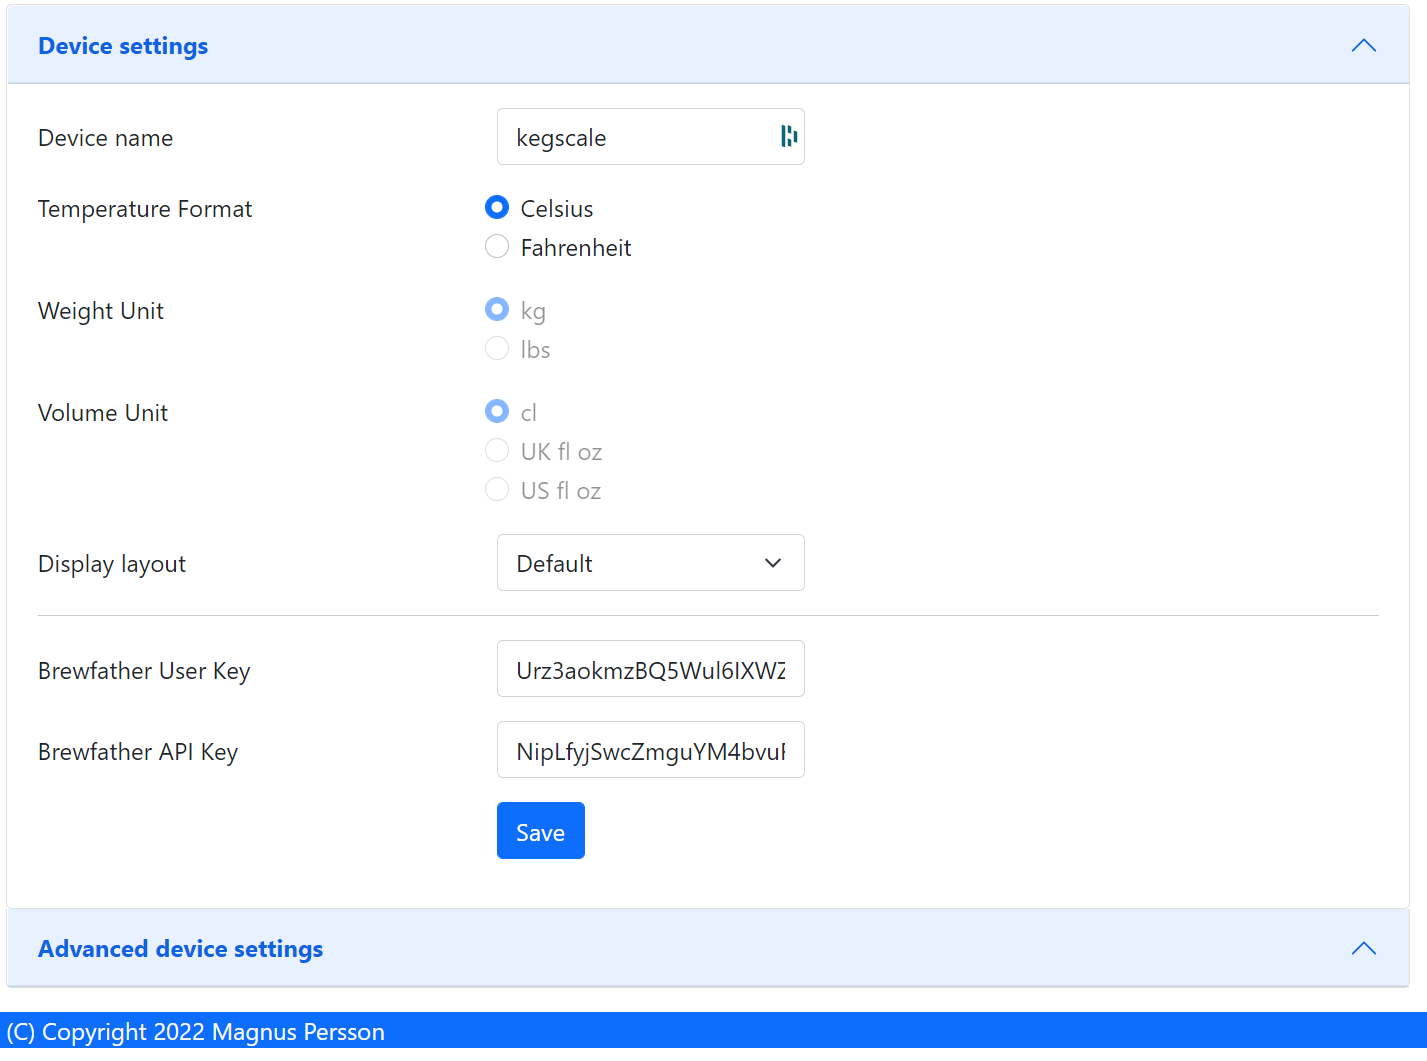
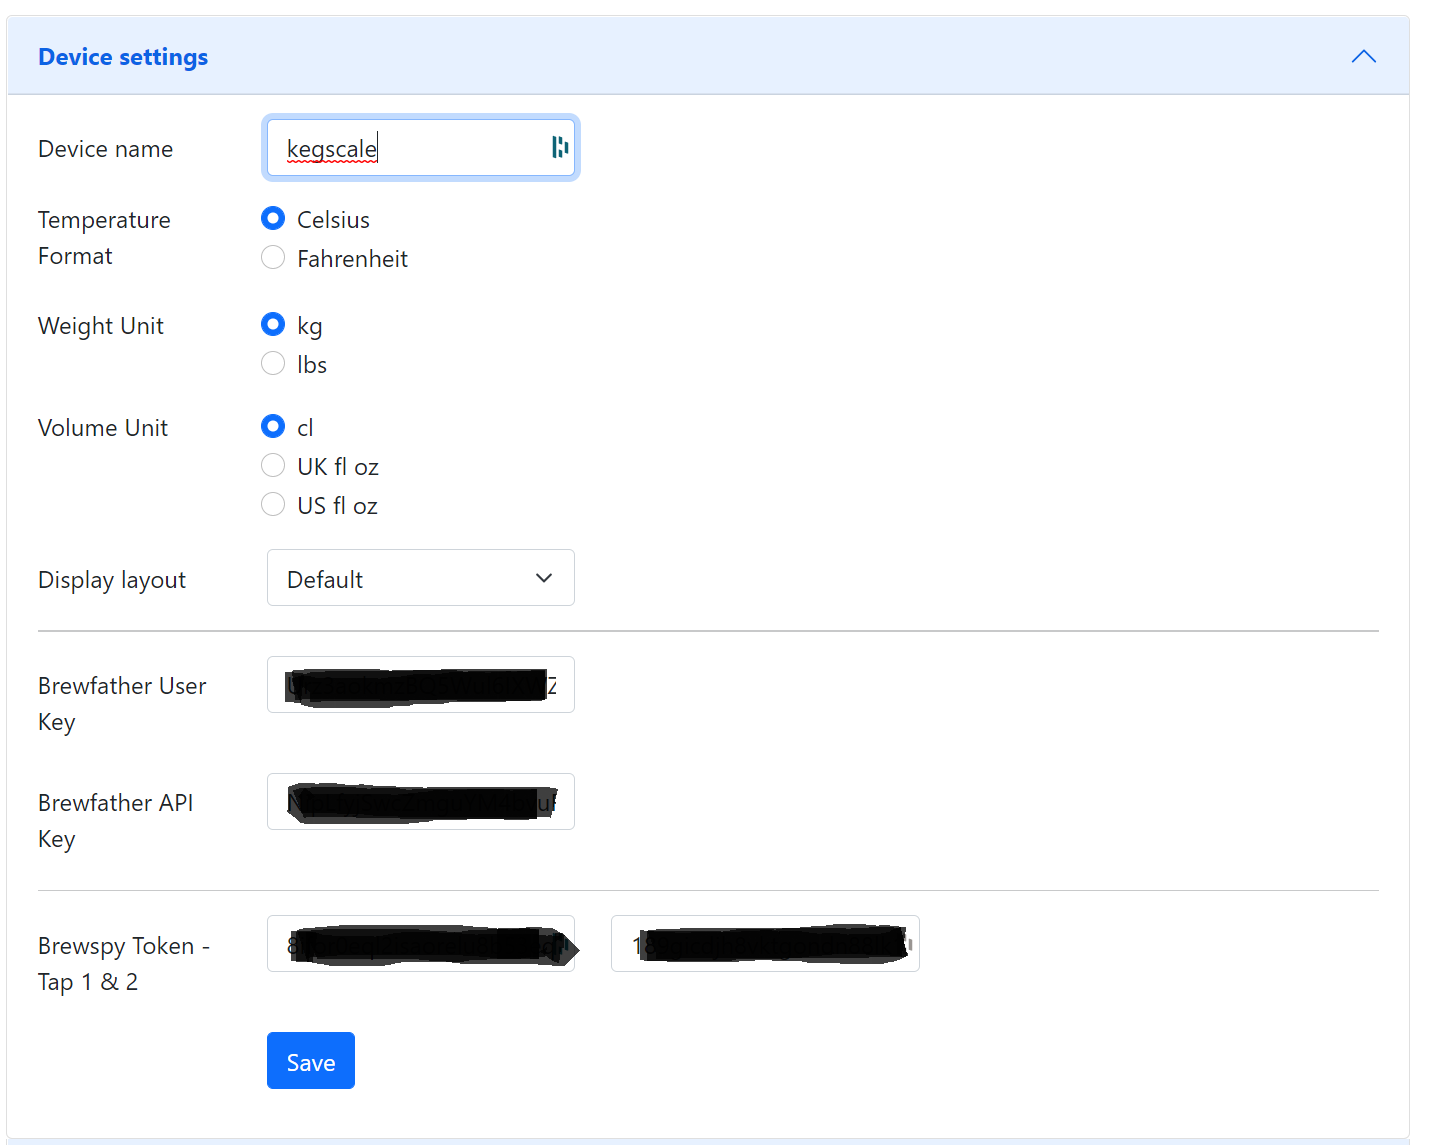
Updated docs for v0.4

diff --git a/src_docs/source/conf.py b/src_docs/source/conf.py
@@ -17,12 +17,12 @@
 
 # -- Project information -----------------------------------------------------
 
-project = 'KegScale'
+project = 'KegMon'
 copyright = '2022, Magnus Persson'
 author = 'Magnus Persson'
 
 # The full version, including alpha/beta/rc tags
-release = '0.0.4'
+release = '0.4.0'
 
 
 # -- General configuration ---------------------------------------------------
@@ -31,6 +31,7 @@ release = '0.0.4'
 # extensions coming with Sphinx (named 'sphinx.ext.*') or your custom
 # ones.
 extensions = [
+  'sphinx_copybutton'
 ]
 
 # Add any paths that contain templates here, relative to this directory.
@@ -46,7 +47,7 @@ exclude_patterns = []
 # The theme to use for HTML and HTML Help pages.  See the documentation for
 # a list of builtin themes.
 #
-html_theme = 'sphinx_rtd_theme'
+html_theme = 'furo'
 
 # Add any paths that contain custom static files (such as style sheets) here,
 # relative to this directory. They are copied after the builtin static files,

diff --git a/src_docs/source/index.rst b/src_docs/source/index.rst
@@ -7,9 +7,13 @@ Welcome to KegMon's documentation!
 ====================================
 
 .. note::
-  Reflects test version v0.3.0, Last updated 2022-09-10
+  Reflects test version v0.4.0, Last updated 2022-09-24
 
   Im still building my own so the project is regarded as work in progress.
+
+Main challenges so far:
+* Stable level detection, I'm trying out a few methods to detect a stable level and tuning the algorithms I have implemented. It's plausible that this is dependant on the hardware build and components. My second build seams to be more stable (at least in room temperature)
+* The esp8266 is really slow when interacting with the web ui. I'm considering switching to an esp32 instead with more power and/or an async web server. 
 
 This project is intended for my own use, I've have not really focused on making this reusable for others so the 
 documentation is not that extensive. 
@@ -17,7 +21,7 @@ documentation is not that extensive.
 However I have documented my build process and share it here. The design is created for 2 kegs but it 
 will work if you only use one (make sure to use the pins for scale 1 in that case). 
 
-The software will detect how many hx711 are connected and if the tempsensor is available. 
+The software will detect how many hx711 are connected and if there is a tempsensor. 
 
 The project contains the following parts:
 * Software that manage the scale and present the readings.
@@ -27,19 +31,21 @@ The project contains the following parts:
 Features
 ++++++++
 
-* Measure the weight of up to two kegs and estimate the number of pours left in the keg. 
-* Define the size of a pour by selecting the beer glass size. 
-* Volume of beer is determined by the FG and weight of the beer + keg.
+* Measure the weight & volume of up to two kegs and estimate the number of glasses are left in the keg
+* Define the size of a pour by selecting the beer glass size
+* Volume of beer is determined by the FG and weight of the beer (total - keg)
 * Import beer information from brewfather (name, abv, ebc and ibu, fg)
-* Show the remaning pours on OLED displays, one per keg
-* Show the remaning pours on web interface
+* Import beer information from brewspy (name, abv) - fg will come in when the brewspy API has implemented it
+* Show the remaning glasses on OLED displays, one per keg
+* Show the remaning glasses on web interface
 * Configuration is done via web interface
-* Calibration of scales are done via web interface
-* Stores statistics about the scales since start to determine the stabilty of the load cells.
+* Calibration of scales are done via web interface, no need for building your own firmware
+* Stores statistics about the scales since start to determine the stabilty of the load cells
 * Update firmware via web interface
-* Interact with brew-spy's tap list
-* Ability to change weight unit (currently only kg is supported)
-* Ability to change volume unit (currently only cl is supported)
+* Interact with brew-spy's tap list (volume and pour notification)
+* Display volumes in cl or fl. oz (uk & us)
+* Display weights in kg or lbs
+* Show a graph over scale changes and pours (last 40 data points)
 
 Future
 ++++++

diff --git a/src_docs/source/software.rst b/src_docs/source/software.rst
@@ -39,6 +39,22 @@ section will show the general device information.
   :width: 600
   :alt: Index
 
+* **Temperature**
+
+Temperature reading (not shown if there is no sensor).
+
+* **Humidity**
+
+Humidity reading (not shown if there is no sensor).
+
+* **Weights/Volumes**
+
+Shows weighs for scale 1 and 2.
+
+* **Glasses**
+
+Shows glasses (pours) left for scale 1 and 2. 
+
 * **Current version**
 
 Shows the current software version including git revision.
@@ -54,22 +70,6 @@ ESP8266 chip ID. Used for identifying the device.
 * **SSID**
 
 Name of network we are connected to.
-
-* **Temperature**
-
-Temperature reading ()not shown if there is no sensor).
-
-* **Humidity**
-
-Humidity reading (not shown if there is no sensor).
-
-* **Weights**
-
-Shows weighs for scale 1 and 2.
-
-* **Glasses**
-
-Shows glasses (pours) left for scale 1 and 2. 
 
 Beers
 *****
@@ -94,7 +94,7 @@ Information about the beer, used to show on user interfaces.
 
 * **Beer FG**
 
-Used in formula for calculating the beer volume. FG has a slight impact on the weight / volume unit.
+Used in formula for calculating the beer volume. FG has a slight impact on the weight / volume unit. If not defined 1 will be used for calculations.
 
 
 Configuration
@@ -130,6 +130,10 @@ Choose the layout/information on the OLED displays.
 
 Brewfather User key/API key.
 
+* **Brewspy token**
+
+Brewspy tokens for keg 1 & keg 2.
+
 Calibration
 ***********
 
@@ -158,15 +162,19 @@ the factor for estimating the weight.
 The third step is to validate that everything works, place anohter thing with a know weight and 
 check the measured value. If you are satisfied then you are done.
 
-Firmware update
-***************
+History
+*******
 
-Here you can upload a new firmware version without the need to hook the device to a serial port 
-on your computer.
+Shows the last level changes detected by the software. There is a second graph for the pours.
 
-.. image:: images/upload.png
+.. image:: images/history.png
   :width: 600
-  :alt: Upload firmware
+  :alt: Level changes
+
+.. image:: images/history2.png
+  :width: 600
+  :alt: Pours
+
 
 Stability
 *********
@@ -179,3 +187,14 @@ Information page that can determine the stability of your hardware build.
 
 I have found that some of my hardware builds was not really stable so I added this 
 feature to check the scale build before doing the final assembly. 
+
+Firmware update
+***************
+
+Here you can upload a new firmware version without the need to hook the device to a serial port 
+on your computer.
+
+.. image:: images/upload.png
+  :width: 600
+  :alt: Upload firmware
+

diff --git a/README.md b/README.md
@@ -10,25 +10,4 @@
 
 This is a project that I have done for my own Keezer, if you like it please feel free to suggest improvements. Feel free to use the code according to the licence agreement. 
 
-Based on the ideas of these projects (there are many that have implemented the same idea);
-
-* https://www.hackster.io/davidtilley/iot-home-beer-keg-scale-b603db
-* https://www.instructables.com/Beer-Keg-Scales/
-* https://brewkegscale.wordpress.com/
-* https://github.com/Callwater/Beerkeg-load-cell
-* https://github.com/nanab/BeerScale
-
 For docs see: https://mp-se.github.io/kegmon/index.html (Not yet updated to match v0.4)
-
-# Update 2022 September
-
-After a lot of differnet testing and building prototypes I think I have a good base to build on. Averaging the reads over a period of time seams to provide stable readings even though it takes a while for the pour detection to recognize a stable level.
-
-I tried to use a kalman filter but that didt respond well to sudden changes in level so I ended up with looking at the last reads for stability and using statistics/averaging for determining a stable level in the keg. It's probably not as accuracte as having a flow meter
-but it's good enough to have a rough view on how many pints are left in the keg. 
-
-Now for some long term testing to determine stability and accuracy, just need to have a few pints.....
-
-I think most of the features I wanted to add has been added, just need to check that they work as planned.
-
-Happy building

diff --git a/src_docs/source/hardware.rst b/src_docs/source/hardware.rst
@@ -10,8 +10,8 @@ This is the hardware schema that I have used in my build.
   one, two scales, one or two displays and with/without a temperature sensor. 
 
 I noticed that my first build was really unsable, it could vary +/- 2kg over time. I've already
-added some features to the software to filter out the varying readings but these large changes are impossible 
-to fix with software. 
+added some features to the software to filter out the varying readings but these large changes are difficult 
+to fix with software. So I need to determine if this is related to software or hardware. 
 
 The graph here shows two of my scales in my keezer where the second one (lower graph) is quite 
 stable over time. The first one is not. The difference is over 2 kg and it goes back to the previous 
